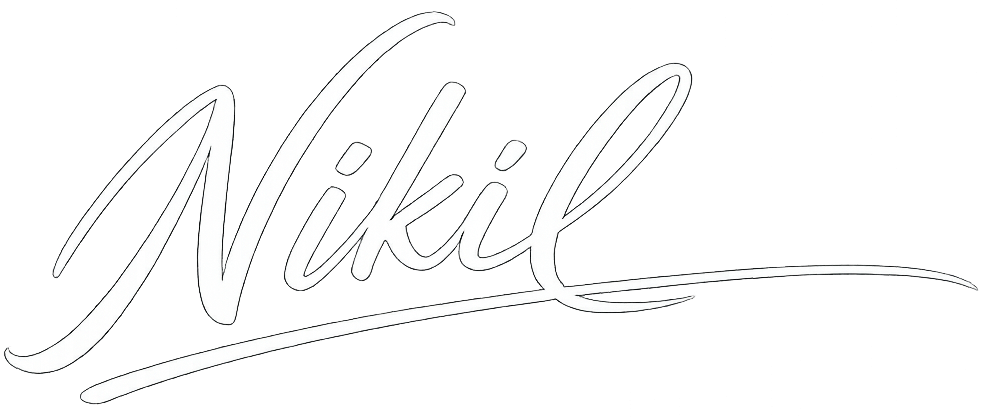
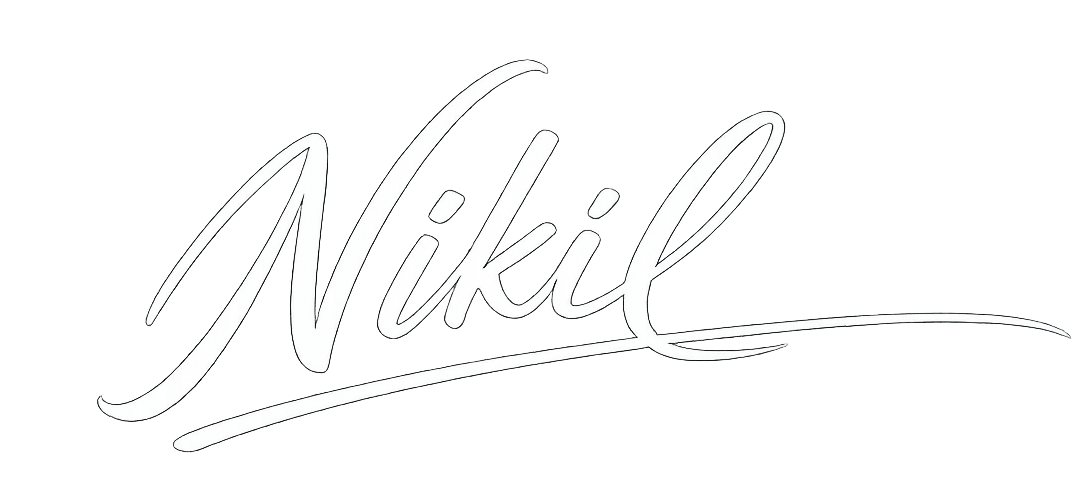
Update experience section and project links

diff --git a/src/sections/Experience.jsx b/src/sections/Experience.jsx
@@ -3,28 +3,16 @@ import '../styles/Experience.css';
 
 const timeline = [
   {
-    date: '2024 — Present',
-    title: 'Fullstack Developer',
-    org: 'Freelance & Personal Projects',
-    desc: 'Shipping end-to-end products, from high-touch UI to scalable backends and integrations.',
-  },
-  {
-    date: '2023 — 2024',
-    title: 'React Developer',
-    org: 'Web Development Focus',
-    desc: 'Built dynamic, performant React applications with modern state management and API design.',
-  },
-  {
-    date: '2022 — 2023',
-    title: 'Mobile App Developer',
-    org: 'Flutter & Cross-Platform',
-    desc: 'Delivered cross-platform apps with polished animations and Firebase-powered backends.',
-  },
-  {
-    date: '2021 — Present',
-    title: 'Computer Science Student',
+    date: 'Jan 2025 — Present',
+    title: 'Computer Science Undergraduate',
     org: 'University',
-    desc: 'Focused on algorithms, systems, and emerging technologies while shipping real products.',
+    desc: 'Pursuing a degree in Computer Science, focusing on core programming concepts and software development.',
+  },
+  {
+    date: 'Jul 2024 — Mar 2025',
+    title: 'Process Associate',
+    org: 'Hcltech',
+    desc: 'Handled various operational processes, ensuring efficiency and quality.',
   },
 ];
 

diff --git a/src/sections/Projects.jsx b/src/sections/Projects.jsx
@@ -9,7 +9,7 @@ const projects = [
     desc: '2nd Year Software Dev Group Project Version 2.',
     stack: ['Dart'],
     github: 'https://github.com/BinuraBimsara/SDGP-Project-V2',
-    live: '#',
+    live: 'https://teamspotit.com.lk/',
     year: '2025',
     role: 'Full Stack',
     accent: 'var(--accent)',
@@ -134,9 +134,11 @@ const ProjectRow = ({ project, index }) => {
           ))}
         </div>
         <div className="project-links">
-          <a href={project.live} className="project-link" target="_blank" rel="noopener noreferrer">
-            <span>Case Study</span><ArrowIcon />
-          </a>
+          {project.live !== '#' && (
+            <a href={project.live} className="project-link" target="_blank" rel="noopener noreferrer">
+              <span>Case Study</span><ArrowIcon />
+            </a>
+          )}
           <a href={project.github} className="project-link" target="_blank" rel="noopener noreferrer">
             <span>Source</span><ArrowIcon />
           </a>
@@ -306,9 +308,11 @@ function MobileFileStack() {
             </div>
 
             <div className="fo-links">
-              <a href={activeCard.live} className="fo-link" target="_blank" rel="noopener noreferrer">
-                Case Study <ArrowIcon />
-              </a>
+              {activeCard.live !== '#' && (
+                <a href={activeCard.live} className="fo-link" target="_blank" rel="noopener noreferrer">
+                  Case Study <ArrowIcon />
+                </a>
+              )}
               <a href={activeCard.github} className="fo-link" target="_blank" rel="noopener noreferrer">
                 Source <ArrowIcon />
               </a>